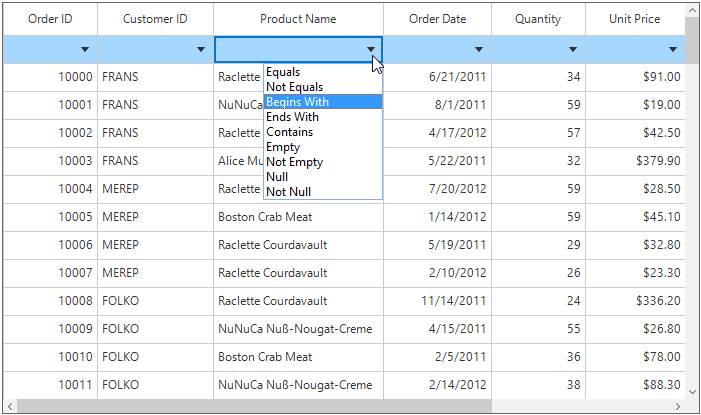
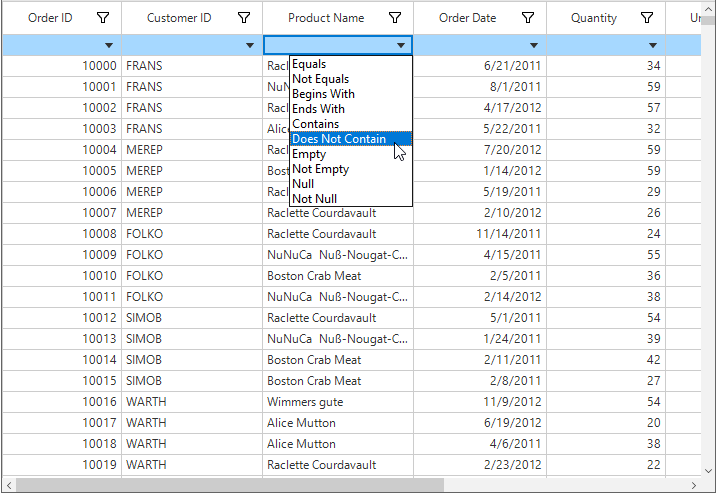
Wf_46127_Prepare the UG documentation for Does not contain option, border color changes, tab key navigation.

diff --git a/WindowsForms/SfDataGrid/Styling.md b/WindowsForms/SfDataGrid/Styling.md
@@ -223,6 +223,26 @@ Me.sfDataGrid1.Style.HeaderStyle.Borders.All = New GridBorder(Color.DarkBlue, Gr
 
 ![Border customization in windows forms datagrid](Styling_images/Styling4.png)
 
+## Changing the Border Color, Border Style, BorderSides,Border3DStyles of the Grid Border Color
+The Border Color, Border Styles, BorderSides, Border3DStyles of the Grid Border can be changed by [SfDataGrid.Style] (https://help.syncfusion.com/cr/cref_files/windowsforms/Syncfusion.SfDataGrid.WinForms~Syncfusion.WinForms.DataGrid.SfDataGrid~Style.html) property.
+
+{% tabs %}
+{% highlight c# %}
+this.sfDataGrid1.Style.BorderStyle = BorderStyle.Fixed3D;
+this.sfDataGrid1.Style.BorderSides = Border3DSide.Top;
+this.sfDataGrid1.Style.Border3DStyle = Border3DStyle.Sunken;
+this.sfDataGrid1.Style.BorderColor = Color.Yellow;
+{% endhighlight %}
+{% highlight vb %}
+Me.sfDataGrid1.Style.BorderStyle = BorderStyle.Fixed3D
+Me.sfDataGrid1.Style.BorderSides = Border3DSide.Top
+Me.sfDataGrid1.Style.Border3DStyle = Border3DStyle.Sunken
+Me.sfDataGrid1.Style.BorderColor = Color.Yellow
+{% endhighlight %}
+{% endtabs %}
+
+![Changing the Border Color, Border Style, BorderSides,Border3DStyles of the Grid Border Color](Styling_images/Styling6.png)
+
 ## Showing busy indicator for the data operations
 
 Indication of the data operation performed on the SfDataGrid can be showed with the help of `BusyIndicator` by setting the [ShowBusyIndicator](https://help.syncfusion.com/cr/cref_files/windowsforms/Syncfusion.SfDataGrid.WinForms~Syncfusion.WinForms.DataGrid.SfDataGrid~ShowBusyIndicator.html) property to `true`. This will display an animated busy indicator image while performing the data operations such as loading large data, sorting, grouping, and filtering.

diff --git a/WindowsForms/SfDataGrid/Selection.md b/WindowsForms/SfDataGrid/Selection.md
@@ -881,6 +881,19 @@ public class CustomSelectionController : RowSelectionController
 {% endhighlight %}
 {% endtabs %}
 
+### Tab Key Navigation Support
+The Following code show to Moves the current cell to  next control in the tab order of the parent container using  SfDataGrid.AllowStandardTab property.
+
+{% tabs %}
+{% highlight c# %}
+this.sfDataGrid1.AllowStandardTab = true;
+{% endhighlight %}
+{% highlight vb %}
+Me.sfDataGrid1.AllowStandardTab = True
+{% endhighlight %}
+{% endtabs %}
+
+![Tab Key Navigation Support in windows forms datagrid](Selection_images/selection20.png)
 ### Displaying Message Box on Current Cell Activated
 
 The [CurrentCellActivated](https://help.syncfusion.com/cr/cref_files/windowsforms/Syncfusion.SfDataGrid.WinForms~Syncfusion.WinForms.DataGrid.SfDataGrid~CurrentCellActivated_EV.html) event provides notification when the current cell is moved from one cell to another.

diff --git a/WindowsForms/SfDataGrid/Filtering.md b/WindowsForms/SfDataGrid/Filtering.md
@@ -409,6 +409,7 @@ When the DateTime type value is bound to the GridColumn, then `Date Filter` is l
 <li>Begins With</li>
 <li>Ends With</li>
 <li>Contains</li>
+<li>Does Not Contain</li>
 <li>Empty</li>
 <li>Not Empty</li>
 <li>Null</li>

diff --git a/WindowsForms/SfDataGrid/FilterRow.md b/WindowsForms/SfDataGrid/FilterRow.md
@@ -248,6 +248,7 @@ The default filter condition is Begins With. Following filter conditions are ava
 <li>Begins With</li>
 <li>Ends With</li>
 <li>Contains</li>
+<li>Does Not Contain</li>
 <li>Empty</li>
 <li>Not Empty</li>
 </ol>
